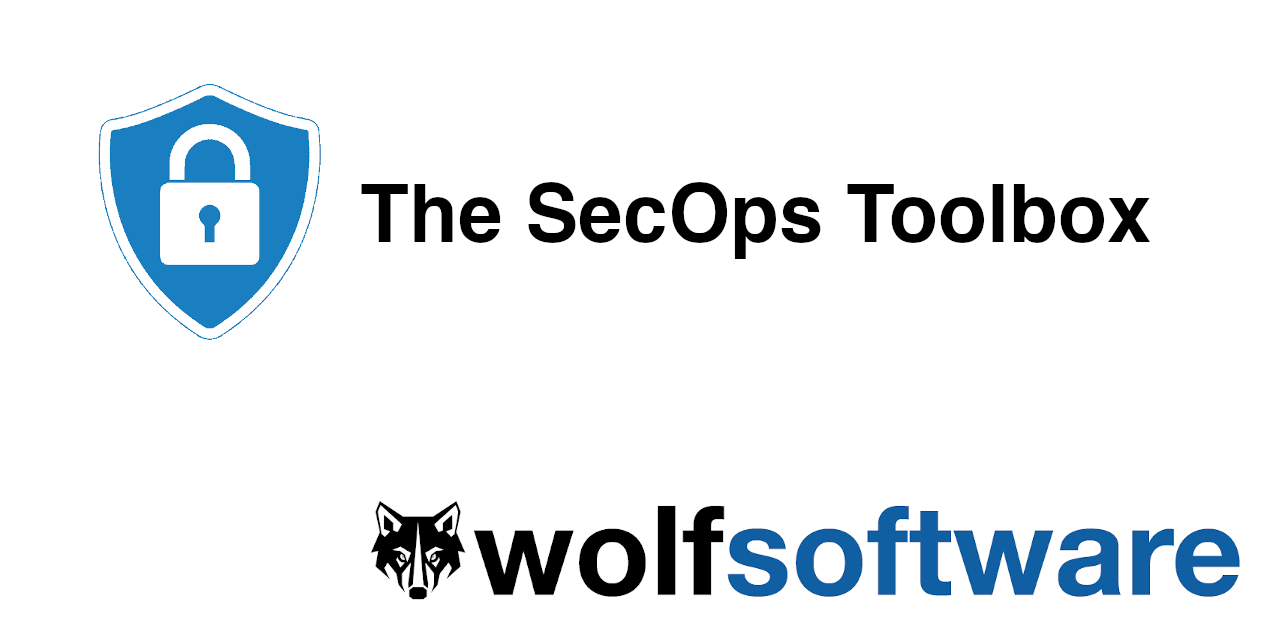
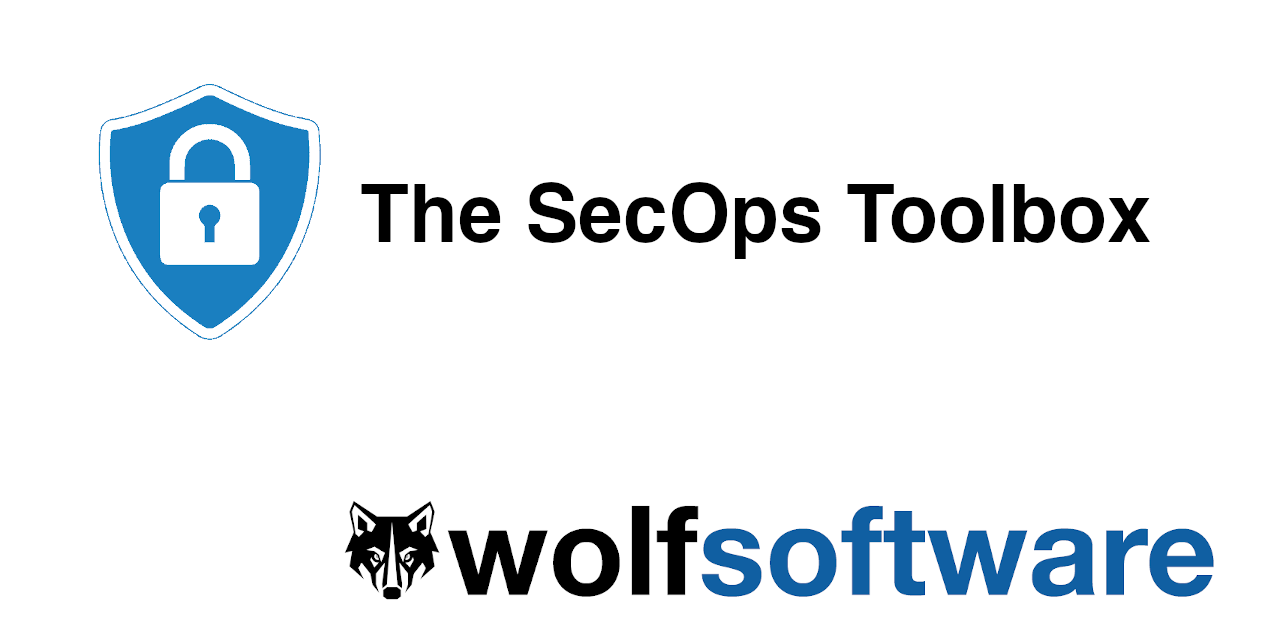
New branding for orgs in GitHub

Changed region(s): [[0.25, 0.7812, 0.9688, 0.9375]]

diff --git a/CHANGELOG.md b/CHANGELOG.md
@@ -7,7 +7,9 @@ This changelog was automatically generated using [Caretaker](https://github.com/
 
 ### [Unreleased](https://github.com/WolfSoftware/branding/compare/v1.0.0...HEAD)
 
-- Additional linting [`[head]`](https://github.com/WolfSoftware/branding/commit/)
+- New branding for orgs in GitHub [`[head]`](https://github.com/WolfSoftware/branding/commit/)
+
+- Additional linting [`[f32259c]`](https://github.com/WolfSoftware/branding/commit/f32259cd5d50686ec5b05122f19d0bd65a8f57dc)
 
 - Use new TravisToolbox scripts [`[f096b0a]`](https://github.com/WolfSoftware/branding/commit/f096b0a5a3b173ce0fa94ac4c7590de30f8a8438)
 
